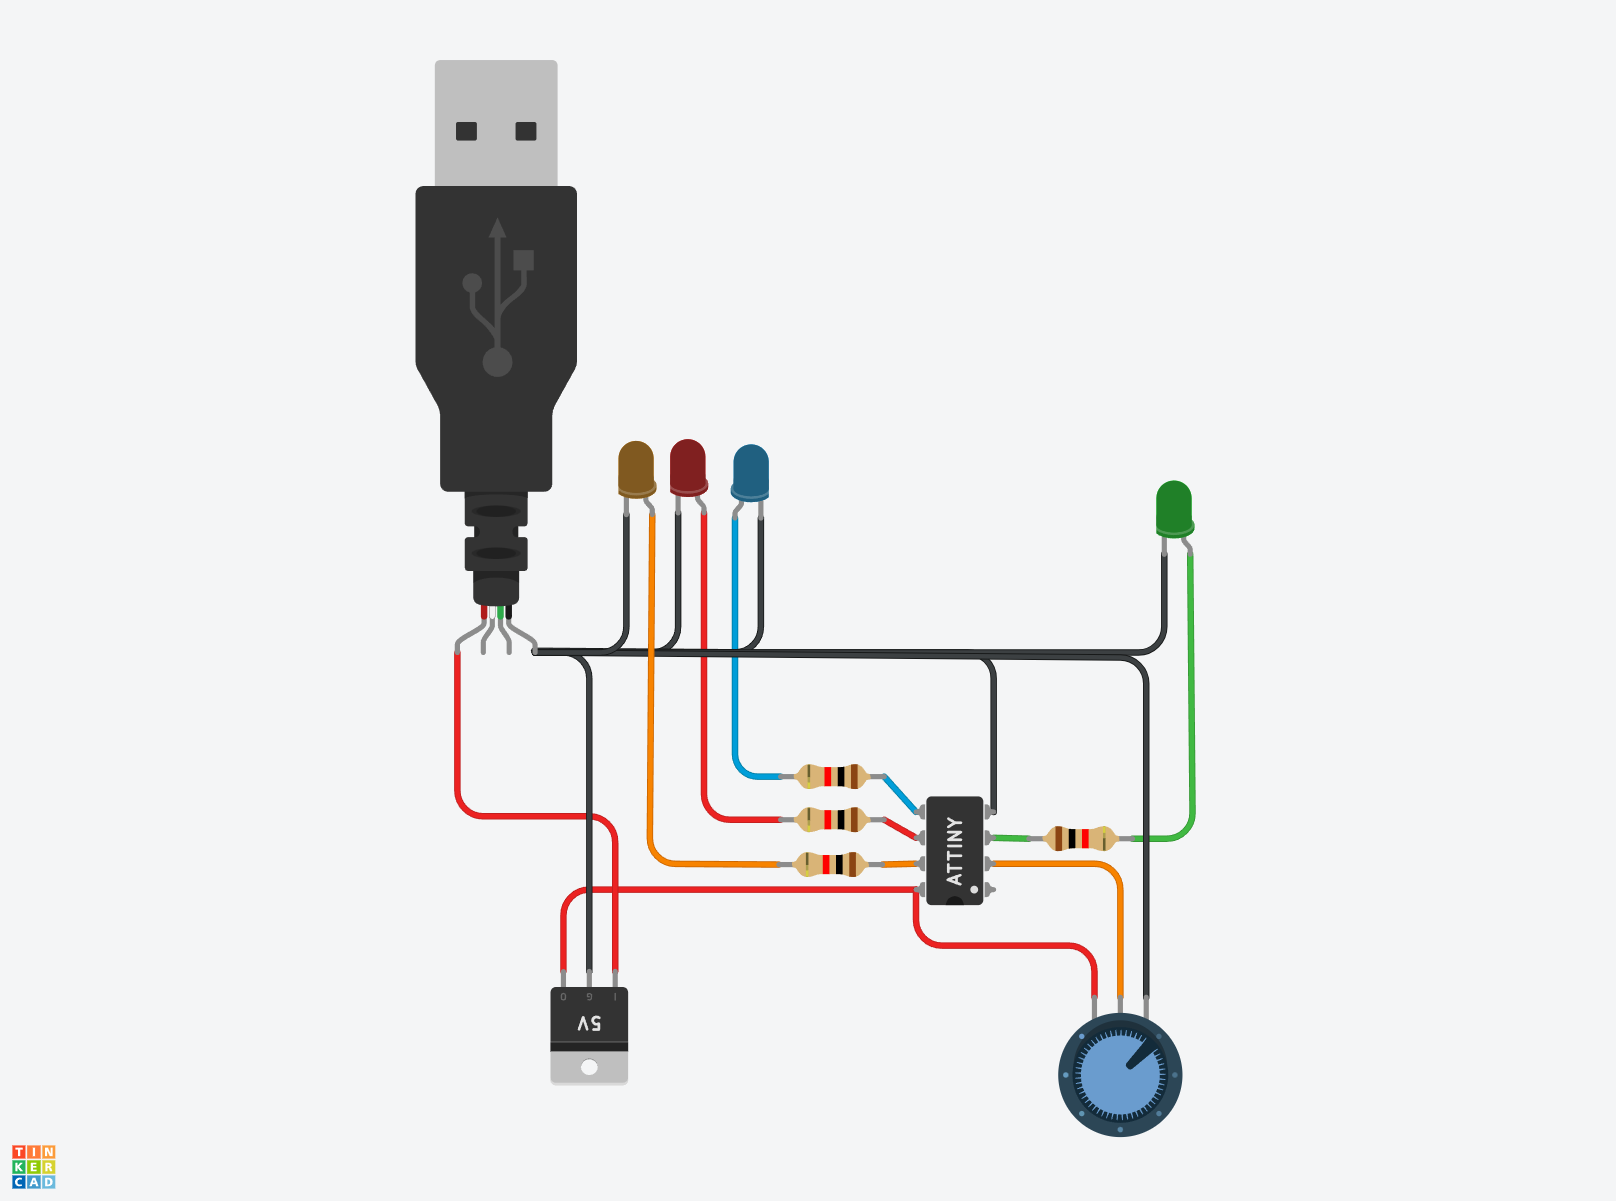
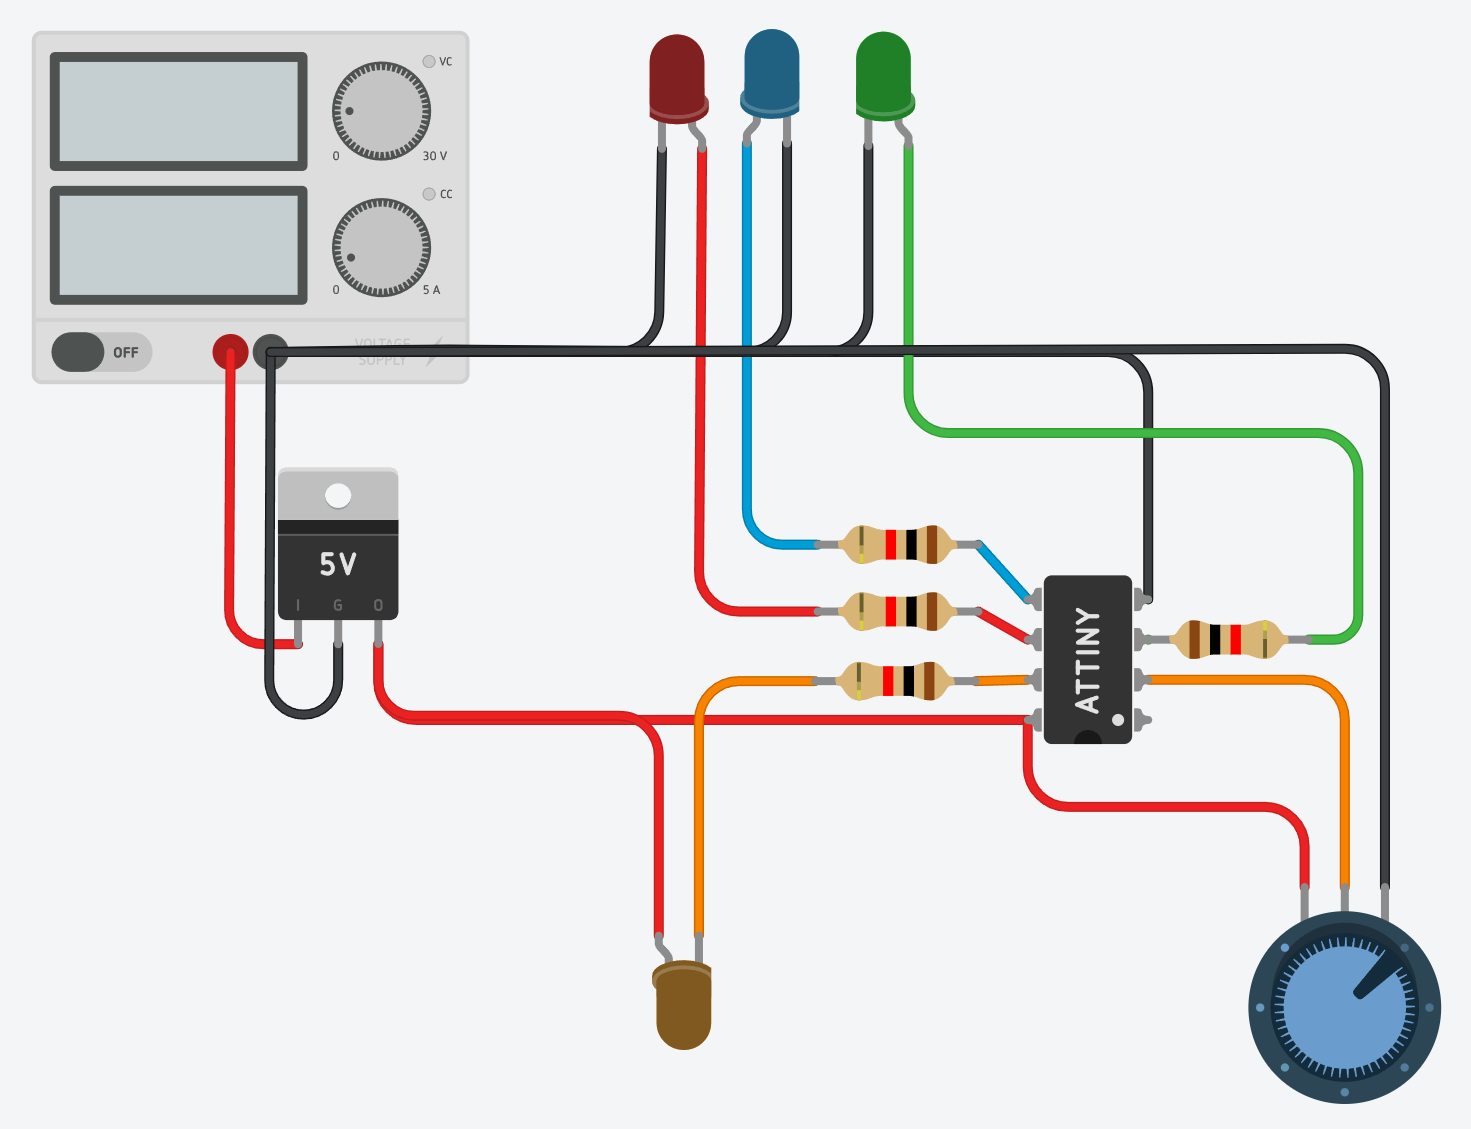
Code cleanup
+ More comments
+ Picture corrected

Changed region(s): [[0.0, 0.0, 0.9789, 0.992], [0.0, 0.93, 0.0612, 0.992]]

diff --git a/src/CimaAttiny85.cpp b/src/CimaAttiny85.cpp
@@ -2,19 +2,8 @@
 #include <avr/io.h>
 #include <avr/interrupt.h>
 
-//#include <avr/sleep.h>
-//#include <util/delay.h>
-
-
-uint32_t messageR = 0b00000101010001110111011100010101;
-uint32_t messageG = 0b10101010101010101111111111111111;
-uint32_t messageB = 0b01111111111111110000000000000001;
-
-uint32_t position = 1;
-uint32_t posVal = 0;
 uint16_t phase16bit = 0;
-
- uint16_t duty = 0;
+uint16_t duty = 0;
 
 bool stop = false;
 
@@ -32,11 +21,6 @@ void initTimer1(){
 
   OCR1C = 255; // compare match value: if TCNT1 == 122 => compare match => call interupt
   TIMSK |= (1 << OCIE1A); // enable compare match interrupt
-/*
-  GTCCR &= ~(1 << COM1B0); //Disable time compare match output to pin PB4
-  GTCCR &= ~(1 << COM1B1);
-  GTCCR &= ~(1 << FOC1B);
-*/
 }
 
 void initPWM0() {
@@ -74,6 +58,7 @@ void initADC() {
     // Enable the ADC and set the prescaler to 128
     ADCSRA = (1 << ADEN) | (1 << ADPS2) | (1 << ADPS1) | (1 << ADPS0); // ADEN = 1, ADPS2:0 = 111 for prescaler 128
 
+    // Data direction Register for port B
     // Set PB3 (ADC3) as input
     DDRB &= ~(1 << PB3);
 
@@ -109,49 +94,21 @@ uint16_t adc_read() {
  * In our case when timer counts to value OCR1C (which we change to potentiometer value)
  */
 ISR(TIMER1_COMPA_vect) {
-    uint8_t phase = phase16bit & 0xFF;
+    uint8_t subPhase = phase16bit & 0xFF;
        
-    if(phase > (duty >> 8)){
-        PORTB |= (1 << PB2);      //PortB2 high 
+    duty = adc_read();
+
+    //Timer Period Duration = How many ticks to count between timer calls
+    OCR1C = duty >> 8;
+
+    //Turn off the led if subPhase is past the duty time - blinking proportionally to potentialmeter value
+    if(subPhase > (duty >> 8)){
+        PORTB |= (1 << PB2);      //PortB2 high
     } else {
         PORTB &= ~(1 << PB2);     //PORTB2 low   
     }
-    
 
-    if(phase % 8 == 0){
-        /**
-        if(position & messageR){
-            PORTB |= (1<<PB1);      //PortB1 high 
-        } else {
-            PORTB &= ~(1<<PB1);     //PORTB1 low   
-        }
-        */
-/*
-        if(position & messageB){
-            PORTB |= (1<<PB4);      //PortB4 high 
-        } else {
-            PORTB &= ~(1<<PB4);     //PORTB4 low   
-        }
-*/
-/*
-        //if(posVal > (duty >> 10)){
-        if(position & messageG){
-            PORTB |= (1<<PB2);      //PortB2 high 
-        } else {
-            PORTB &= ~(1<<PB2);     //PORTB2 low   
-        }
-       // */
-
-        position = position << 1;
-        if(position == 0){
-            duty = adc_read();
-
-            //Timer Period Duration = How many ticks to count between timer calls
-            OCR1C = duty >> 8;
-        }
-        position = position ? position : 1;
-    }
-    
+    // Output Compare Registers - value to trigger some event - in our case it is PWM duty end
     OCR0A = phaseToIntensity(phase16bit);
     OCR0B = phaseToIntensity(phase16bit + 70);
     OCR1B = phaseToIntensity(phase16bit + 180);
@@ -161,24 +118,25 @@ ISR(TIMER1_COMPA_vect) {
 
 int main() {
     
-    DDRB  |= (1<<PB0);
-    DDRB  |= (1<<PB1);
-    DDRB  |= (1<<PB4);
-    DDRB  |= (1<<PB2);
+    // Data direction Register for port B
+    // 1 = output, 0 = input
+    DDRB  |= (1 << PB0); // Blue LED
+    DDRB  |= (1 << PB1); // Red LED
+    DDRB  |= (1 << PB4); // Green LED
+    DDRB  |= (1 << PB2); // Orange LED
 
-    PORTB |= (1<<PB0);
+    // Light up all LEDs
+    PORTB |= (1 << PB0);      //PortB0 high 
     OCR0A = 128;
 
-    PORTB |= (1<<PB1);      //PortB1 high 
+    PORTB |= (1 << PB1);      //PortB1 high 
     OCR0B = 128;
 
-    PORTB |= (1<<PB4);      //PortB4 high 
+    PORTB |= (1 << PB4);      //PortB4 high 
     OCR1B = 128;
 
-    PORTB |= (1<<PB2);      //PortB2 high 
-
-    //PORTB&=~(1<<PB1);     //PORTB1 low 
-    //PORTB^= (1<<PB1);     //PortB1 toggle
+    // Orange LED is wired in reverse. Must be grounded to light up.
+    PORTB &= ~(1 << PB2);      //PortB2 high 
 
     initTimer1();
     initPWM0();
